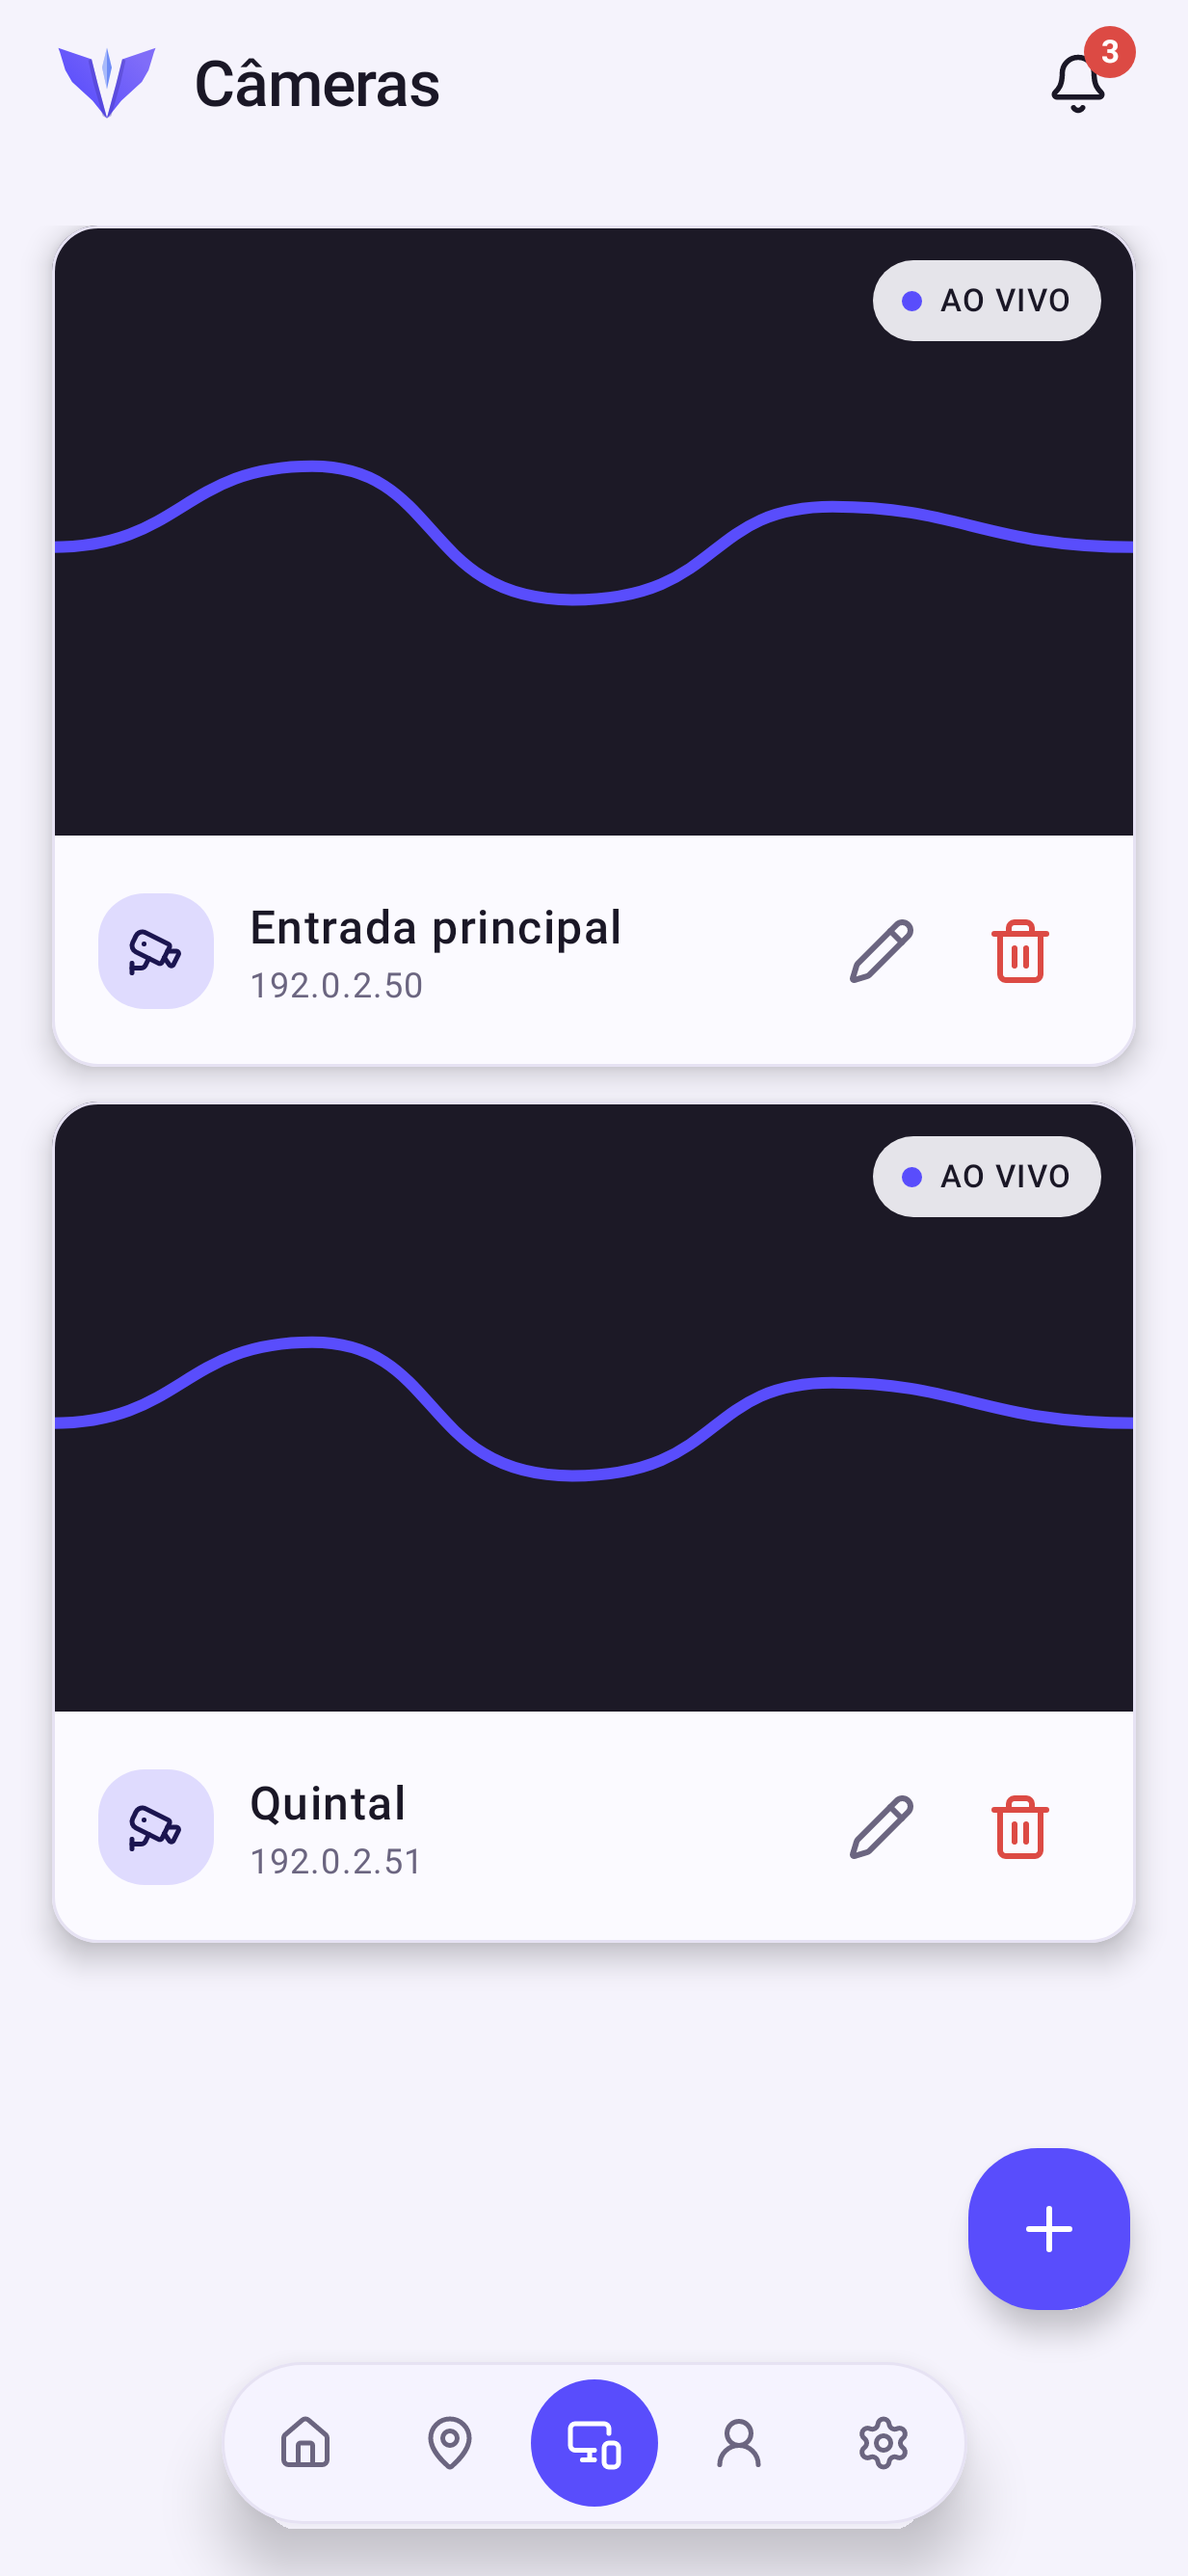
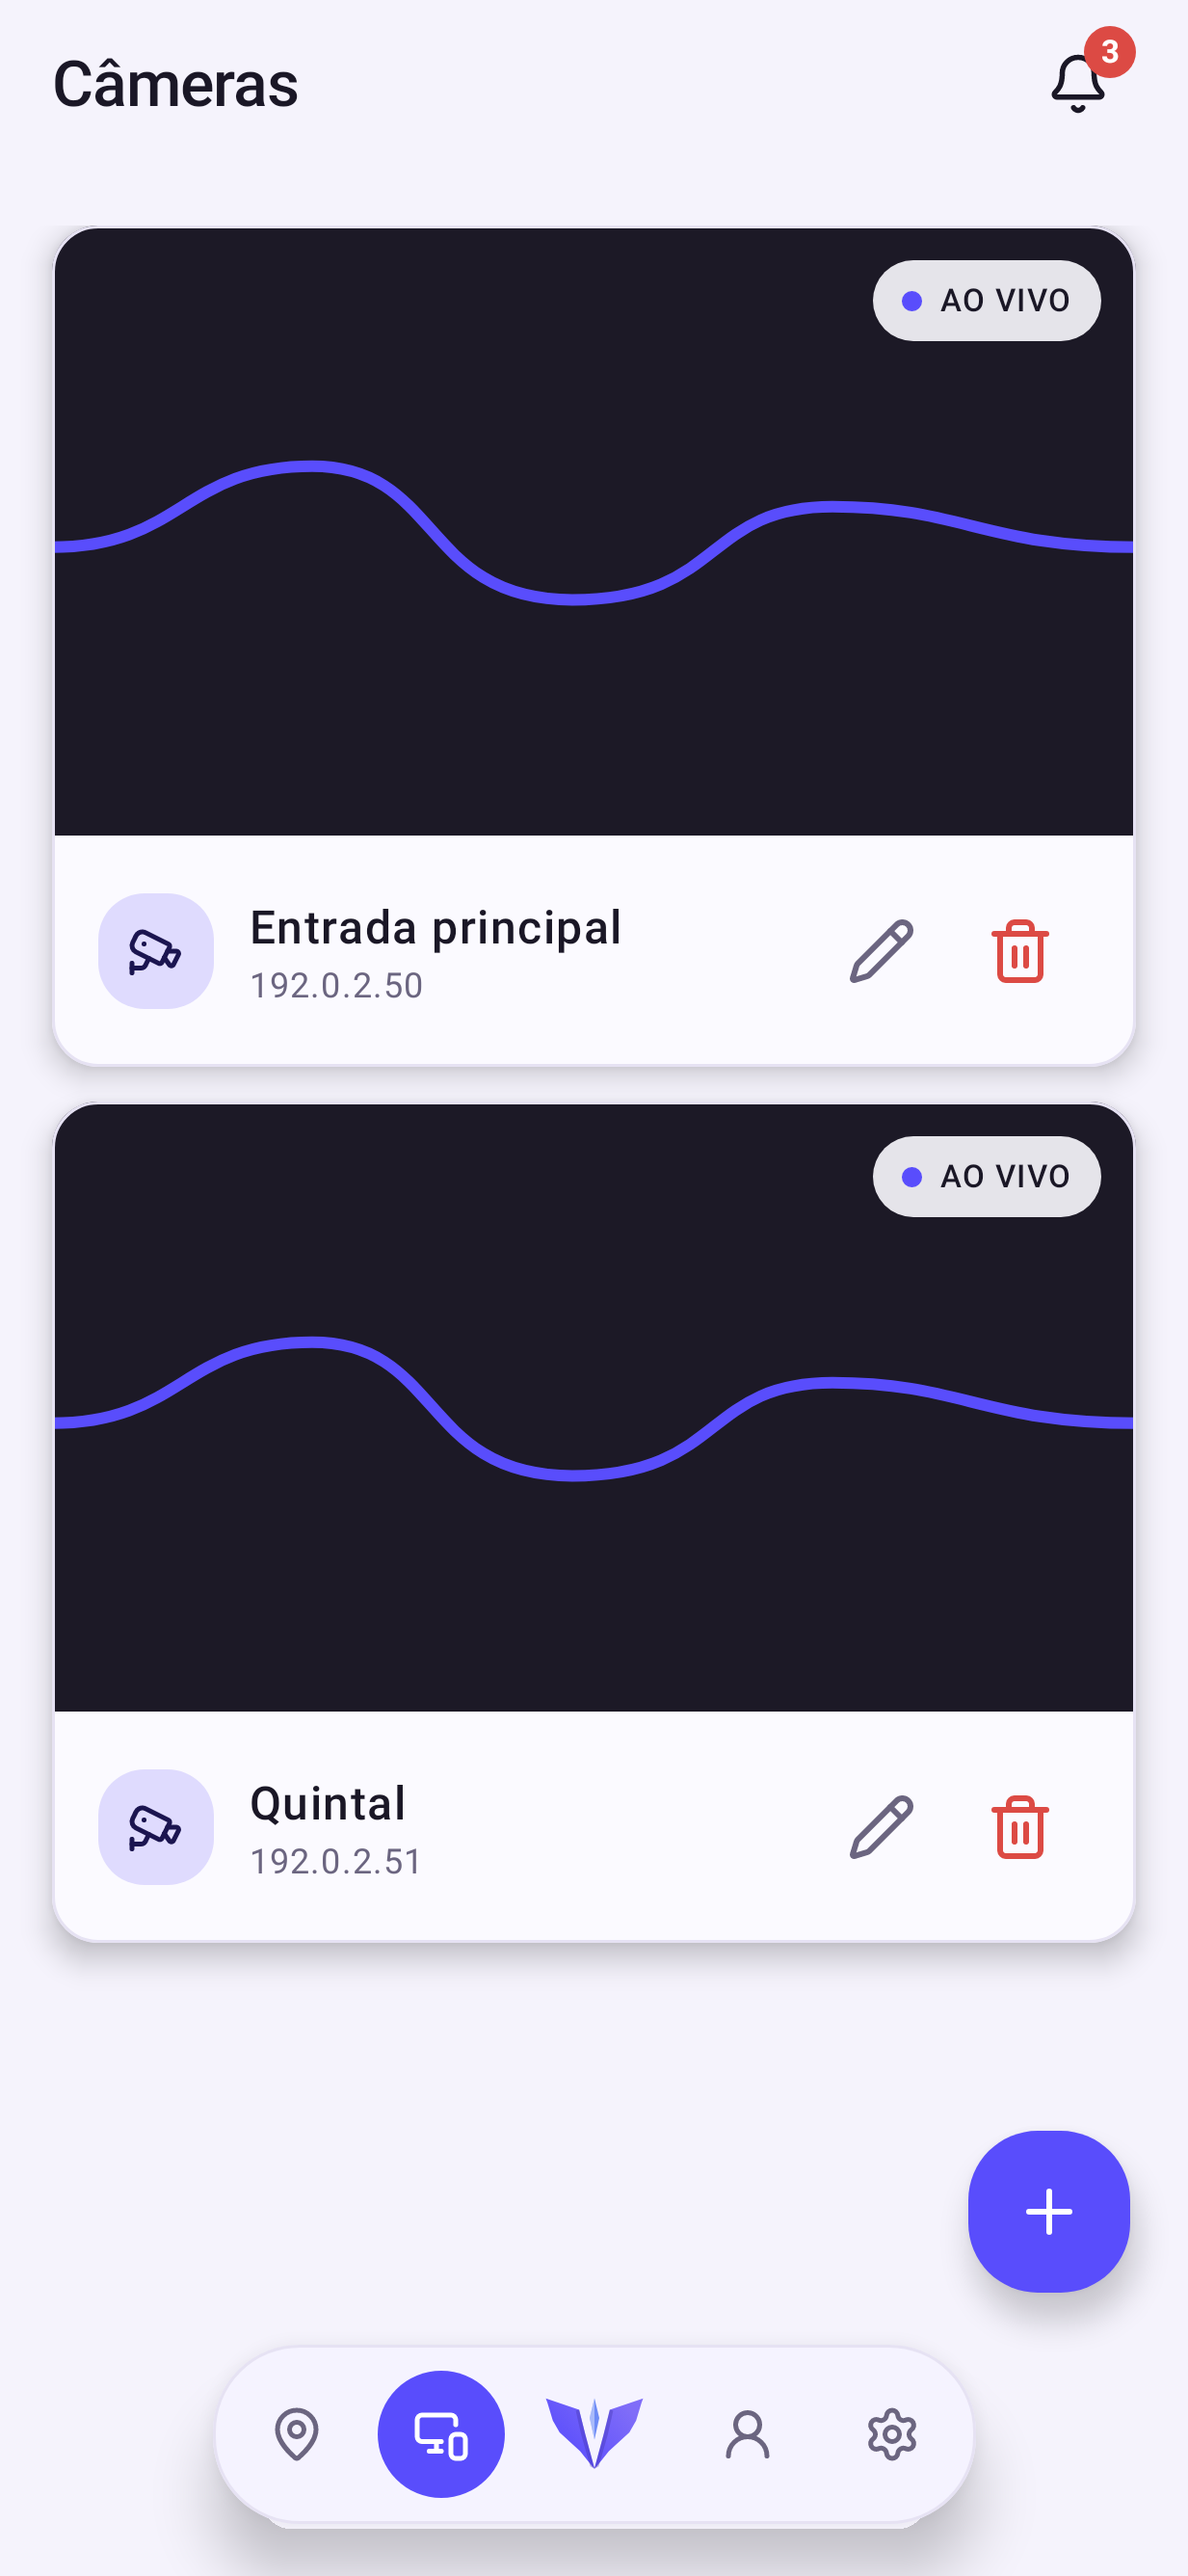
feat(app+painel): marca no meio da barra e visão geral pela marca
App
- o topo fica só com o título da tela: a marca saiu de lá;
- a barra de baixo passou a ter dois destinos de cada lado e a marca no meio,
  que leva para a visão geral — o item "Visão geral" saiu da lista;
- a barra continua aparecendo na visão geral, com a marca destacada;
- as capturas da landing foram regeradas com a barra real.

Painel
- a marca saiu do topo da barra lateral e entrou no meio da barra do celular,
  com três itens de cada lado, igual à landing;
- o item "Visão geral" saiu da lista e a marca passou a levar para ela
  (com o mesmo destaque de página atual).

Verificação
- barra do painel e da landing medidas no navegador: centro da marca coincide
  com o centro da barra e os itens ficam com 44px de cada lado;
- o painel precisou de seletores com .sidebar para vencer as regras de flex que
  vinham depois e mantinham os botões fora do lugar.

diff --git a/mobile/app/src/test/java/com/ferforastieri/valky/feature/lights/LandingScreenshotsTest.kt b/mobile/app/src/test/java/com/ferforastieri/valky/feature/lights/LandingScreenshotsTest.kt
@@ -56,8 +56,9 @@ class LandingScreenshotsTest {
 
     @get:Rule val compose = createComposeRule()
 
+    // A barra real: dois destinos de cada lado e a marca no meio (a visão geral
+    // saiu da lista e agora é a marca que leva para lá).
     private val dock = listOf(
-        Lucide.House to "Visão geral",
         Lucide.MapPin to "Localização",
         Lucide.MonitorSmartphone to "Dispositivos",
         Lucide.UserRound to "Perfil",
@@ -83,7 +84,7 @@ class LandingScreenshotsTest {
                     if (!proprioCabecalho) ValkyTopBar(title = titulo, onNotifications = {}, unreadNotifications = 3)
                     Box(Modifier.weight(1f)) { conteudo() }
                     Box(Modifier.fillMaxWidth().padding(bottom = 18.dp), contentAlignment = Alignment.Center) {
-                        FloatingDock(dock, selecionado, {})
+                        FloatingDock(dock, selecionado, {}, overviewSelected = selecionado < 0, onOverview = {})
                     }
                 }
             }
@@ -129,19 +130,19 @@ class LandingScreenshotsTest {
         FavoriteItem("remote", "rem-1", "TV da sala"),
     )
 
-    @Test fun overviewClara() { tela("light", "Visão geral", 0) { OverviewContent(cameras = emptyList(), trackedPeople = 2, events = eventos(), favorites = favoritos()) }; capturar("landing-overview-light") }
-    @Test fun overviewEscura() { tela("dark", "Visão geral", 0) { OverviewContent(cameras = emptyList(), trackedPeople = 2, events = eventos(), favorites = favoritos()) }; capturar("landing-overview-dark") }
-    @Test fun camerasClara() { tela("light", "Câmeras", 2) { CamerasContent(cameras()) }; capturar("landing-cameras-light") }
-    @Test fun camerasEscura() { tela("dark", "Câmeras", 2) { CamerasContent(cameras()) }; capturar("landing-cameras-dark") }
-    @Test fun eventosClara() { tela("light", "Notificações", 0) { EventsContent(eventos()) }; capturar("landing-events-light") }
-    @Test fun eventosEscura() { tela("dark", "Notificações", 0) { EventsContent(eventos()) }; capturar("landing-events-dark") }
+    @Test fun overviewClara() { tela("light", "Visão geral", -1) { OverviewContent(cameras = emptyList(), trackedPeople = 2, events = eventos(), favorites = favoritos()) }; capturar("landing-overview-light") }
+    @Test fun overviewEscura() { tela("dark", "Visão geral", -1) { OverviewContent(cameras = emptyList(), trackedPeople = 2, events = eventos(), favorites = favoritos()) }; capturar("landing-overview-dark") }
+    @Test fun camerasClara() { tela("light", "Câmeras", 1) { CamerasContent(cameras()) }; capturar("landing-cameras-light") }
+    @Test fun camerasEscura() { tela("dark", "Câmeras", 1) { CamerasContent(cameras()) }; capturar("landing-cameras-dark") }
+    @Test fun eventosClara() { tela("light", "Notificações", -1) { EventsContent(eventos()) }; capturar("landing-events-light") }
+    @Test fun eventosEscura() { tela("dark", "Notificações", -1) { EventsContent(eventos()) }; capturar("landing-events-dark") }
     // Capturas das regras: voltam à landing com a identidade nova.
-    @Test fun regrasClara() { tela("light", "Regras", 4) { regras() }; capturar("landing-rules-light") }
-    @Test fun regrasEscura() { tela("dark", "Regras", 4) { regras() }; capturar("landing-rules-dark") }
-    @Test fun ajustesClara() { tela("light", "Ajustes", 4) { SettingsContent(admin = true, permissionsReady = 0, permissionsTotal = 0, language = "", theme = "") }; capturar("landing-settings-light") }
-    @Test fun ajustesEscura() { tela("dark", "Ajustes", 4) { SettingsContent(admin = true, permissionsReady = 0, permissionsTotal = 0, language = "", theme = "") }; capturar("landing-settings-dark") }
-    @Test fun listaClara() { tela("light", "Iluminação", 2) { lista() }; capturar("landing-lista-light") }
-    @Test fun listaEscura() { tela("dark", "Iluminação", 2) { lista() }; capturar("landing-lista-dark") }
-    @Test fun luzClara() { tela("light", "", 2, proprioCabecalho = true) { LightDetailContent(lamp("Luz Suíte", true, 30), false, {}, onChange = {}) }; capturar("landing-luz-light") }
-    @Test fun luzEscura() { tela("dark", "", 2, proprioCabecalho = true) { LightDetailContent(lamp("Luz Suíte", true, 30), false, {}, onChange = {}) }; capturar("landing-luz-dark") }
+    @Test fun regrasClara() { tela("light", "Regras", -1) { regras() }; capturar("landing-rules-light") }
+    @Test fun regrasEscura() { tela("dark", "Regras", -1) { regras() }; capturar("landing-rules-dark") }
+    @Test fun ajustesClara() { tela("light", "Ajustes", 3) { SettingsContent(admin = true, permissionsReady = 0, permissionsTotal = 0, language = "", theme = "") }; capturar("landing-settings-light") }
+    @Test fun ajustesEscura() { tela("dark", "Ajustes", 3) { SettingsContent(admin = true, permissionsReady = 0, permissionsTotal = 0, language = "", theme = "") }; capturar("landing-settings-dark") }
+    @Test fun listaClara() { tela("light", "Iluminação", 1) { lista() }; capturar("landing-lista-light") }
+    @Test fun listaEscura() { tela("dark", "Iluminação", 1) { lista() }; capturar("landing-lista-dark") }
+    @Test fun luzClara() { tela("light", "", 1, proprioCabecalho = true) { LightDetailContent(lamp("Luz Suíte", true, 30), false, {}, onChange = {}) }; capturar("landing-luz-light") }
+    @Test fun luzEscura() { tela("dark", "", 1, proprioCabecalho = true) { LightDetailContent(lamp("Luz Suíte", true, 30), false, {}, onChange = {}) }; capturar("landing-luz-dark") }
 }

diff --git a/mobile/app/src/main/java/com/ferforastieri/valky/core/design/AppChrome.kt b/mobile/app/src/main/java/com/ferforastieri/valky/core/design/AppChrome.kt
@@ -22,6 +22,8 @@ import androidx.compose.material3.Text
 import androidx.compose.runtime.Composable
 import androidx.compose.ui.Alignment
 import androidx.compose.ui.Modifier
+import androidx.compose.ui.graphics.Color
+import androidx.compose.ui.draw.clip
 import androidx.compose.ui.graphics.vector.ImageVector
 import androidx.compose.ui.text.font.FontWeight
 import androidx.compose.ui.text.style.TextAlign
@@ -50,8 +52,8 @@ fun ValkyTopBar(
                 .padding(horizontal = 18.dp, vertical = 9.dp),
             verticalAlignment = Alignment.CenterVertically,
         ) {
-            ValkyMark(Modifier.size(38.dp))
-            Spacer(Modifier.width(11.dp))
+            // Sem a marca aqui: o símbolo vive na barra de baixo, no meio, e o
+            // topo fica só com o título da tela.
             Text(
                 text = title,
                 modifier = Modifier.weight(1f),
@@ -107,6 +109,8 @@ fun FloatingDock(
     selectedIndex: Int,
     onSelect: (Int) -> Unit,
     modifier: Modifier = Modifier,
+    overviewSelected: Boolean = false,
+    onOverview: (() -> Unit)? = null,
 ) {
     Surface(
         modifier = modifier,
@@ -121,7 +125,12 @@ fun FloatingDock(
             horizontalArrangement = Arrangement.spacedBy(6.dp),
             verticalAlignment = Alignment.CenterVertically,
         ) {
-            items.forEachIndexed { index, (icon, description) ->
+            // Metade dos destinos de cada lado, com a marca no meio: tocar nela
+            // volta para a visão geral, que deixou de ter item próprio.
+            val half = items.size / 2
+            @Composable
+            fun destination(index: Int) {
+                val (icon, description) = items[index]
                 val selected = index == selectedIndex
                 Surface(
                     onClick = { onSelect(index) },
@@ -139,6 +148,20 @@ fun FloatingDock(
                     }
                 }
             }
+            for (index in 0 until half) destination(index)
+            if (onOverview != null) {
+                Box(
+                    modifier = Modifier
+                        .size(50.dp)
+                        .clip(RoundedCornerShape(16.dp))
+                        .background(if (overviewSelected) MaterialTheme.colorScheme.secondaryContainer else Color.Transparent)
+                        .clickable(onClick = onOverview),
+                    contentAlignment = Alignment.Center,
+                ) {
+                    ValkyMark(Modifier.size(38.dp))
+                }
+            }
+            for (index in half until items.size) destination(index)
         }
     }
 }

diff --git a/mobile/app/src/main/java/com/ferforastieri/valky/navigation/ValkyrisApp.kt b/mobile/app/src/main/java/com/ferforastieri/valky/navigation/ValkyrisApp.kt
@@ -57,8 +57,8 @@ import com.composables.icons.lucide.MonitorSmartphone
 
 private data class Destination(val route: String, val label: Int, val icon: ImageVector)
 
+// A visão geral saiu da lista: quem leva para lá é a marca, no meio da barra.
 private val destinations = listOf(
-    Destination("overview", R.string.overview, Lucide.House),
     Destination("people", R.string.location_screen, Lucide.MapPin),
     Destination("devices", R.string.devices, Lucide.MonitorSmartphone),
     Destination("profile", R.string.profile, Lucide.UserRound),
@@ -123,7 +123,7 @@ private fun ConnectedValkyApp(main: MainViewModel) {
     val entry by nav.currentBackStackEntryAsState()
     val currentRoute = entry?.destination?.route
     val selectedIndex = destinations.indexOfFirst { it.route == currentRoute }
-    val showBottomBar = selectedIndex >= 0 || currentRoute == "events" || currentRoute == "event/{id}" || currentRoute == "camera/{id}" || currentRoute == "lights" || currentRoute == "light/{id}" || currentRoute == "remote/{id}" || currentRoute == "person/{id}"
+    val showBottomBar = currentRoute == "overview" || selectedIndex >= 0 || currentRoute == "events" || currentRoute == "event/{id}" || currentRoute == "camera/{id}" || currentRoute == "lights" || currentRoute == "light/{id}" || currentRoute == "remote/{id}" || currentRoute == "person/{id}"
     val showTopBar = selectedIndex >= 0 || currentRoute == "events" || currentRoute == "event/{id}" || currentRoute == "lights"
     val pendingEvent by main.pendingEvent.collectAsStateWithLifecycle()
     val pendingCamera by main.pendingCamera.collectAsStateWithLifecycle()
@@ -191,9 +191,13 @@ private fun ConnectedValkyApp(main: MainViewModel) {
                 contentAlignment = androidx.compose.ui.Alignment.Center,
             ) {
                 val labels = destinations.map { it.icon to stringResource(it.label) }
-                FloatingDock(labels, selectedIndex, onSelect = { index ->
-                    nav.openTopLevel(destinations[index].route)
-                })
+                FloatingDock(
+                    items = labels,
+                    selectedIndex = selectedIndex,
+                    onSelect = { index -> nav.openTopLevel(destinations[index].route) },
+                    overviewSelected = currentRoute == "overview",
+                    onOverview = { nav.openTopLevel("overview") },
+                )
             }
         },
     ) { padding ->

diff --git a/web/viewer/viewer.css b/web/viewer/viewer.css
@@ -278,10 +278,9 @@ select:focus {
   display: flex;
   flex-direction: column;
 }
-.sidebar .brand {
-  justify-content: center;
-  width: 100%;
-  padding: 0 0 30px;
+/* No desktop a marca não fica no topo: ela vive na barra do celular, no meio. */
+.sidebar > .brand {
+  display: none;
 }
 .sidebar .brand img {
   width: 88px;
@@ -955,14 +954,50 @@ dialog::backdrop {
   .sidebar > .brand {
     display: none;
   }
-  .sidebar nav {
-    display: flex;
-    justify-content: space-around;
-    min-width: 0;
-    flex: 5;
-    height: 100%;
-    gap: 0;
+  /* Mesma divisão da landing: três itens, a marca no meio e três itens. */
+  .sidebar {
+    display: grid;
+    grid-template-columns: repeat(3, minmax(0, 1fr)) auto repeat(3, minmax(0, 1fr));
+    align-items: center;
+    gap: 2px;
   }
+  /* Seletores com .sidebar para vencer as regras de flex que vêm depois. */
+  .sidebar > nav,
+  .sidebar > .sidebar-actions {
+    display: contents;
+  }
+  .sidebar > .brand {
+    display: flex;
+    align-items: center;
+    grid-column: 4;
+    grid-row: 1;
+    justify-self: center;
+    margin: 0;
+    padding: 0;
+    border: 0;
+  }
+  .sidebar > .brand img {
+    width: clamp(44px, 13vw, 56px);
+    height: auto;
+    aspect-ratio: 403 / 292;
+  }
+  /* Itens redondos e do mesmo tamanho da marca, como na landing. */
+  .sidebar nav a,
+  .sidebar-actions button {
+    justify-self: center;
+    grid-row: 1;
+    width: 44px;
+    min-width: 0;
+    height: 44px;
+    min-height: 44px;
+    padding: 0;
+  }
+  .sidebar nav a:nth-child(1) { grid-column: 1; }
+  .sidebar nav a:nth-child(2) { grid-column: 2; }
+  .sidebar nav a:nth-child(3) { grid-column: 3; }
+  .sidebar nav a:nth-child(4) { grid-column: 5; }
+  .sidebar-actions button:nth-child(1) { grid-column: 6; }
+  .sidebar-actions button:nth-child(2) { grid-column: 7; }
   .sidebar nav a {
     flex: 1;
     min-width: 0;
